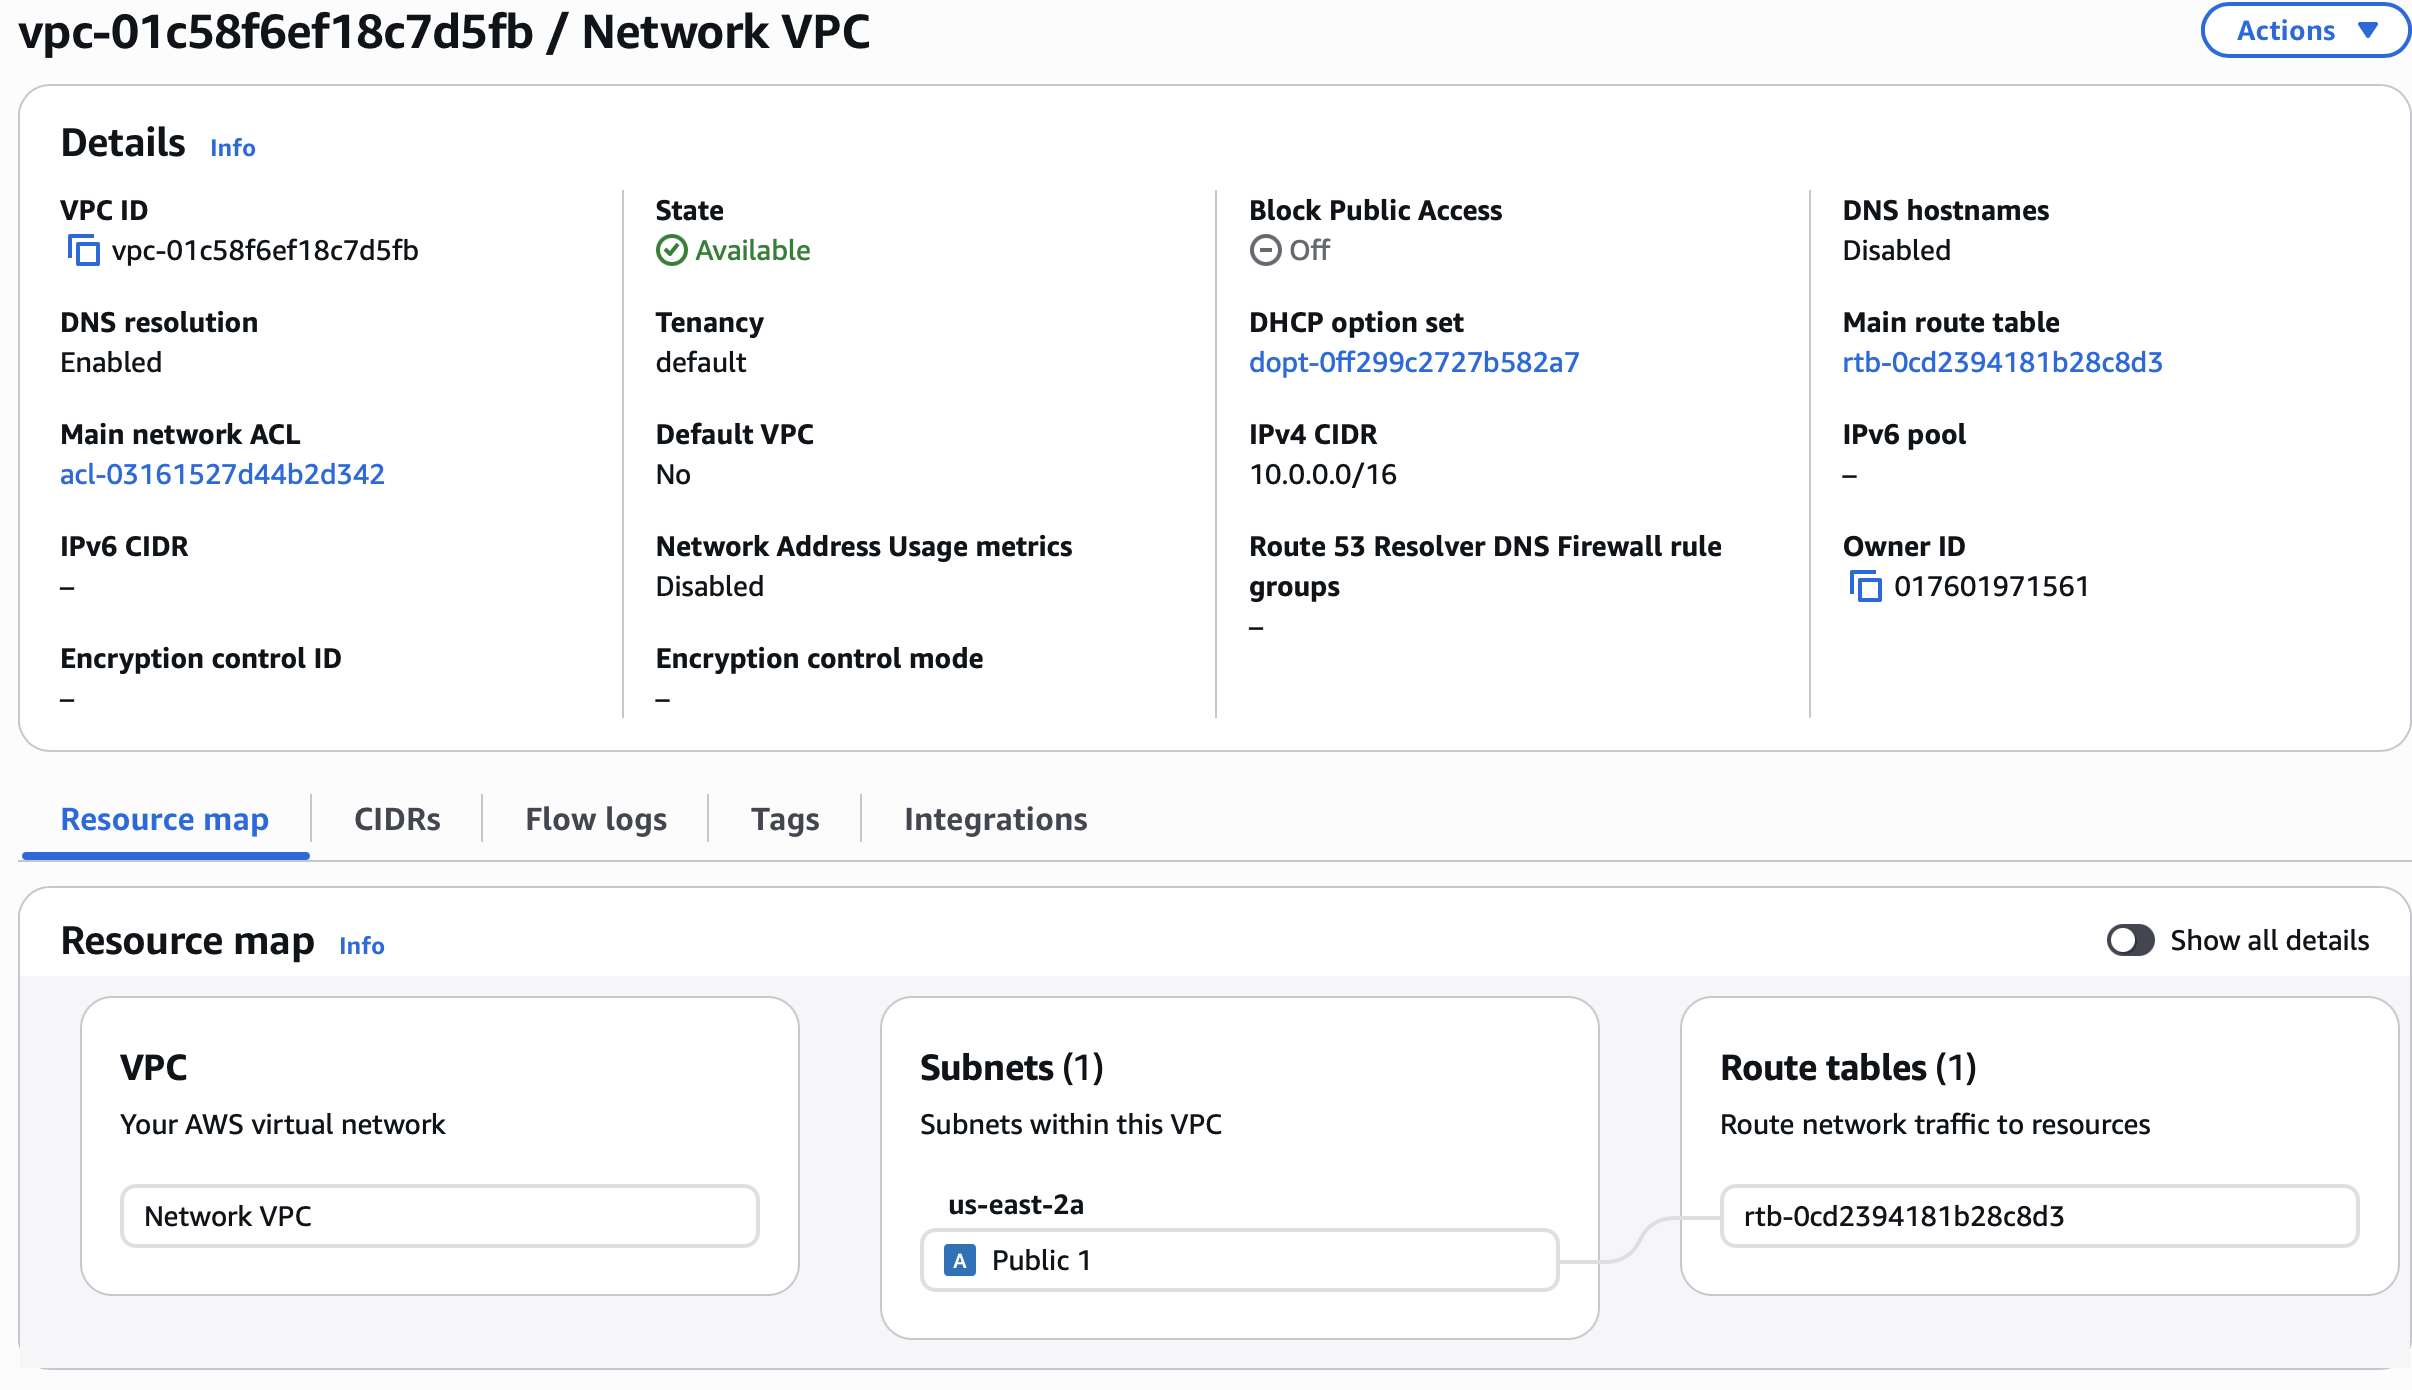
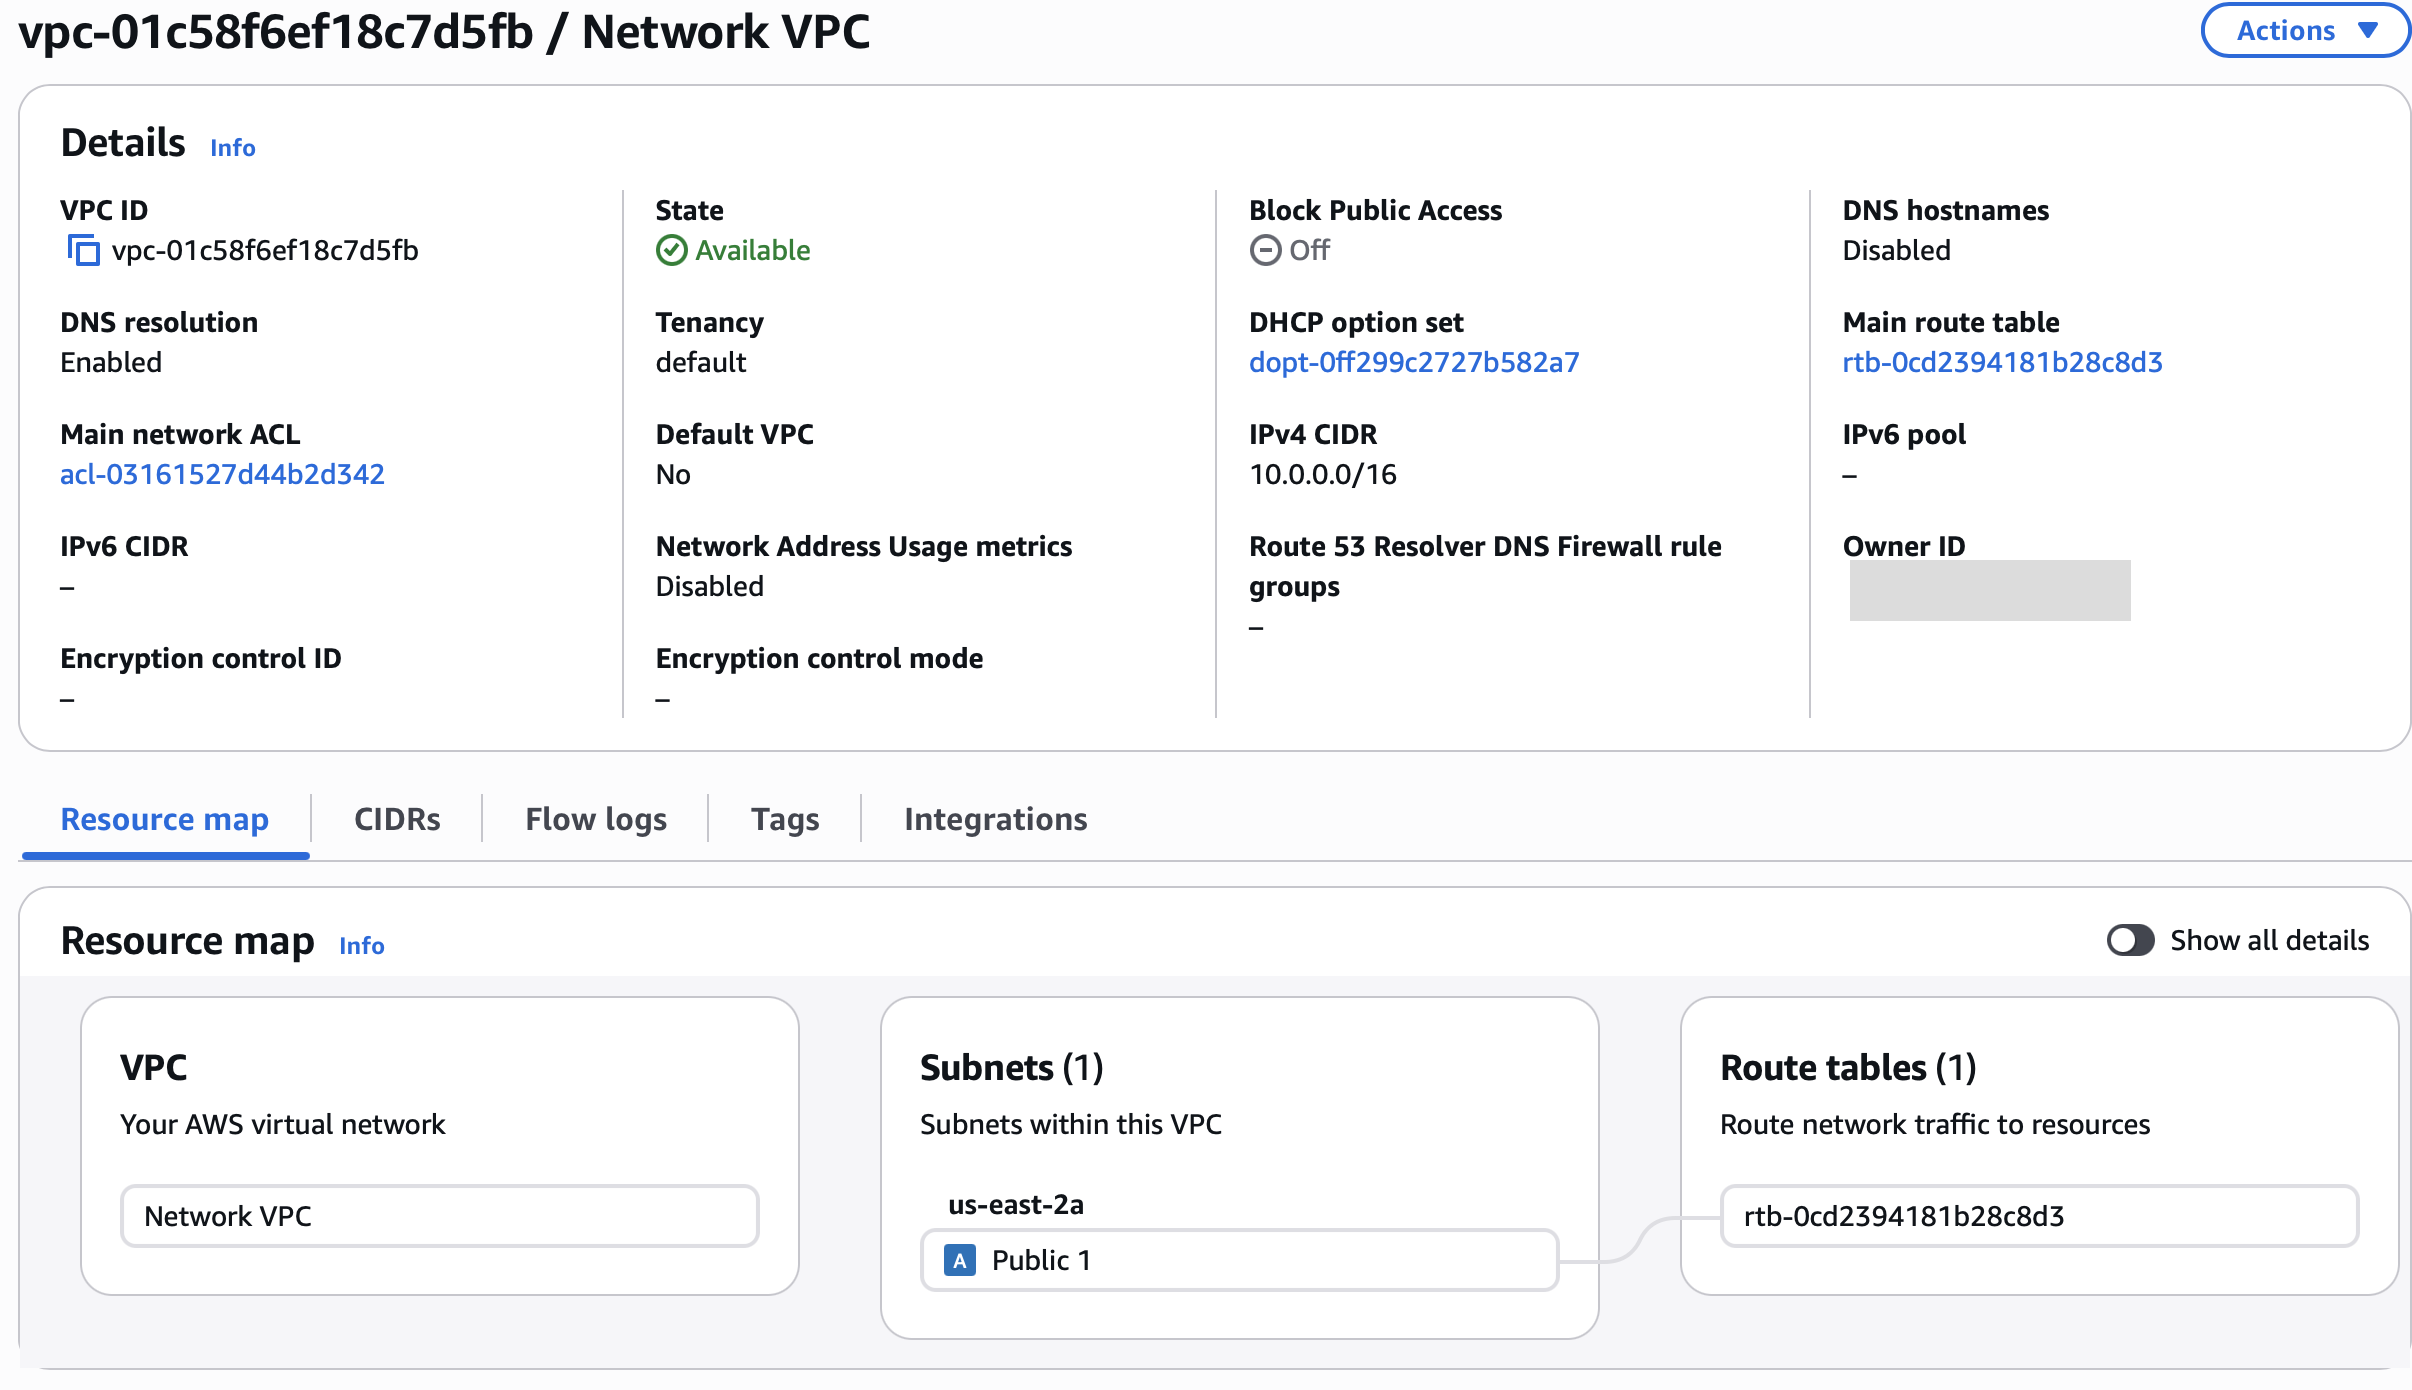
Add files via upload

Changed region(s): [[0.7463, 0.4022, 0.9017, 0.464]]

diff --git a/linux-multi-user-web-server/README.md b/linux-multi-user-web-server/README.md
@@ -82,12 +82,17 @@ sudo -u www-data touch /var/www/suk/test.txt                        # Permission
 
 ## Screenshots
 
-| Ubuntu + nginx | AlmaLinux + Apache |
-|---|---|
-| ![suk on Ubuntu](screenshots/ubuntu-suk.png) | ![suk on AlmaLinux](screenshots/alma-suk.png) |
-| ![nana on Ubuntu](screenshots/ubuntu-nana.png) | ![nana on AlmaLinux](screenshots/alma-nana.png) |
-| ![monet on Ubuntu](screenshots/ubuntu-monet.png) | ![monet on AlmaLinux](screenshots/alma-monet.png) |
-| ![Ubuntu permission tests](screenshots/ubuntu-permissions.png) | ![AlmaLinux permission tests](screenshots/alma-permissions.png) |
+Screenshots are from the Ubuntu + nginx build.
+
+### Each user's site served by nginx
+| suk.local | nana.local | monet.local |
+|---|---|---|
+| ![suk's site](screenshots/ubuntu-suk.png) | ![nana's site](screenshots/ubuntu-nana.png) | ![monet's site](screenshots/ubuntu-monet.png) |
+
+### Permission tests
+Owner can edit, another user is denied, and the web server can read but not write.
+
+![Permission tests](screenshots/ubuntu-permissions.png)
 
 ## Challenges and Fixes
 

diff --git a/linux-backup-automation/README.md b/linux-backup-automation/README.md
@@ -95,11 +95,17 @@ sudo systemctl enable --now backup-www.timer
 | Timer runs it | `systemctl start backup-www.service`, `journalctl -u backup-www.service` | Backup created, logged in the journal |
 
 ## Screenshots
-![Backup script](screenshots/backup-script.png)
-![Backup file and folder permissions](screenshots/backup-test.png)
-![7-day cleanup test](screenshots/cleanup-test.png)
-![cron file and log](screenshots/cron.png)
-![systemd timer and journal](screenshots/systemd-timer.png)
+### Backup created with root-only permissions
+![Backup test](screenshots/backup-test.png)
+
+### 7-day cleanup test
+![Cleanup test](screenshots/cleanup-test.png)
+
+### cron schedule and log
+![cron](screenshots/cron.png)
+
+### systemd timer and journal
+![systemd timer](screenshots/systemd-timer.png)
 
 ## cron vs systemd Timer
 

diff --git a/linux-firewall-hardening/README.md b/linux-firewall-hardening/README.md
@@ -80,13 +80,13 @@ ssh root@TARGET_IP
 
 ## Screenshots
 
-| Ubuntu | AlmaLinux |
-|---|---|
-| ![ufw status](screenshots/ufw-status.png) | ![firewalld list-all](screenshots/firewalld-list-all.png) |
-| ![Ubuntu PermitRootLogin](screenshots/ubuntu-permitrootlogin.png) | ![AlmaLinux PermitRootLogin](screenshots/alma-permitrootlogin.png) |
-| ![nmap of Ubuntu from AlmaLinux](screenshots/nmap-ubuntu-from-alma.png) | ![nmap of AlmaLinux from Ubuntu](screenshots/nmap-alma-from-ubuntu.png) |
+Screenshots are from the Ubuntu build.
 
-![Root SSH denied](screenshots/root-ssh-denied.png)
+### ufw rules: default deny, only 22, 80, and 443 allowed
+![ufw status](screenshots/ufw-status.png)
+
+### Root SSH login disabled
+![PermitRootLogin no](screenshots/ubuntu-permitrootlogin.png)
 
 ## ufw vs firewalld
 

diff --git a/linux-virtual-hosts/README.md b/linux-virtual-hosts/README.md
@@ -60,12 +60,14 @@ Each request returned the matching site's page from the same server.
 
 ## Screenshots
 
-| | |
+Screenshots are from the Ubuntu + nginx build.
+
+| cafe.test | shop.test |
 |---|---|
 | ![cafe.test](screenshots/cafe-test.png) | ![shop.test](screenshots/shop-test.png) |
-| ![books.test](screenshots/books-test.png) | ![music.test](screenshots/music-test.png) |
 
-![/etc/hosts on each VM](screenshots/hosts-files.png)
+### Enabled server blocks, curl tests, and /etc/hosts
+![Server blocks, curl tests, and hosts file](screenshots/hosts-file.png)
 
 ## nginx vs Apache Comparison
 
